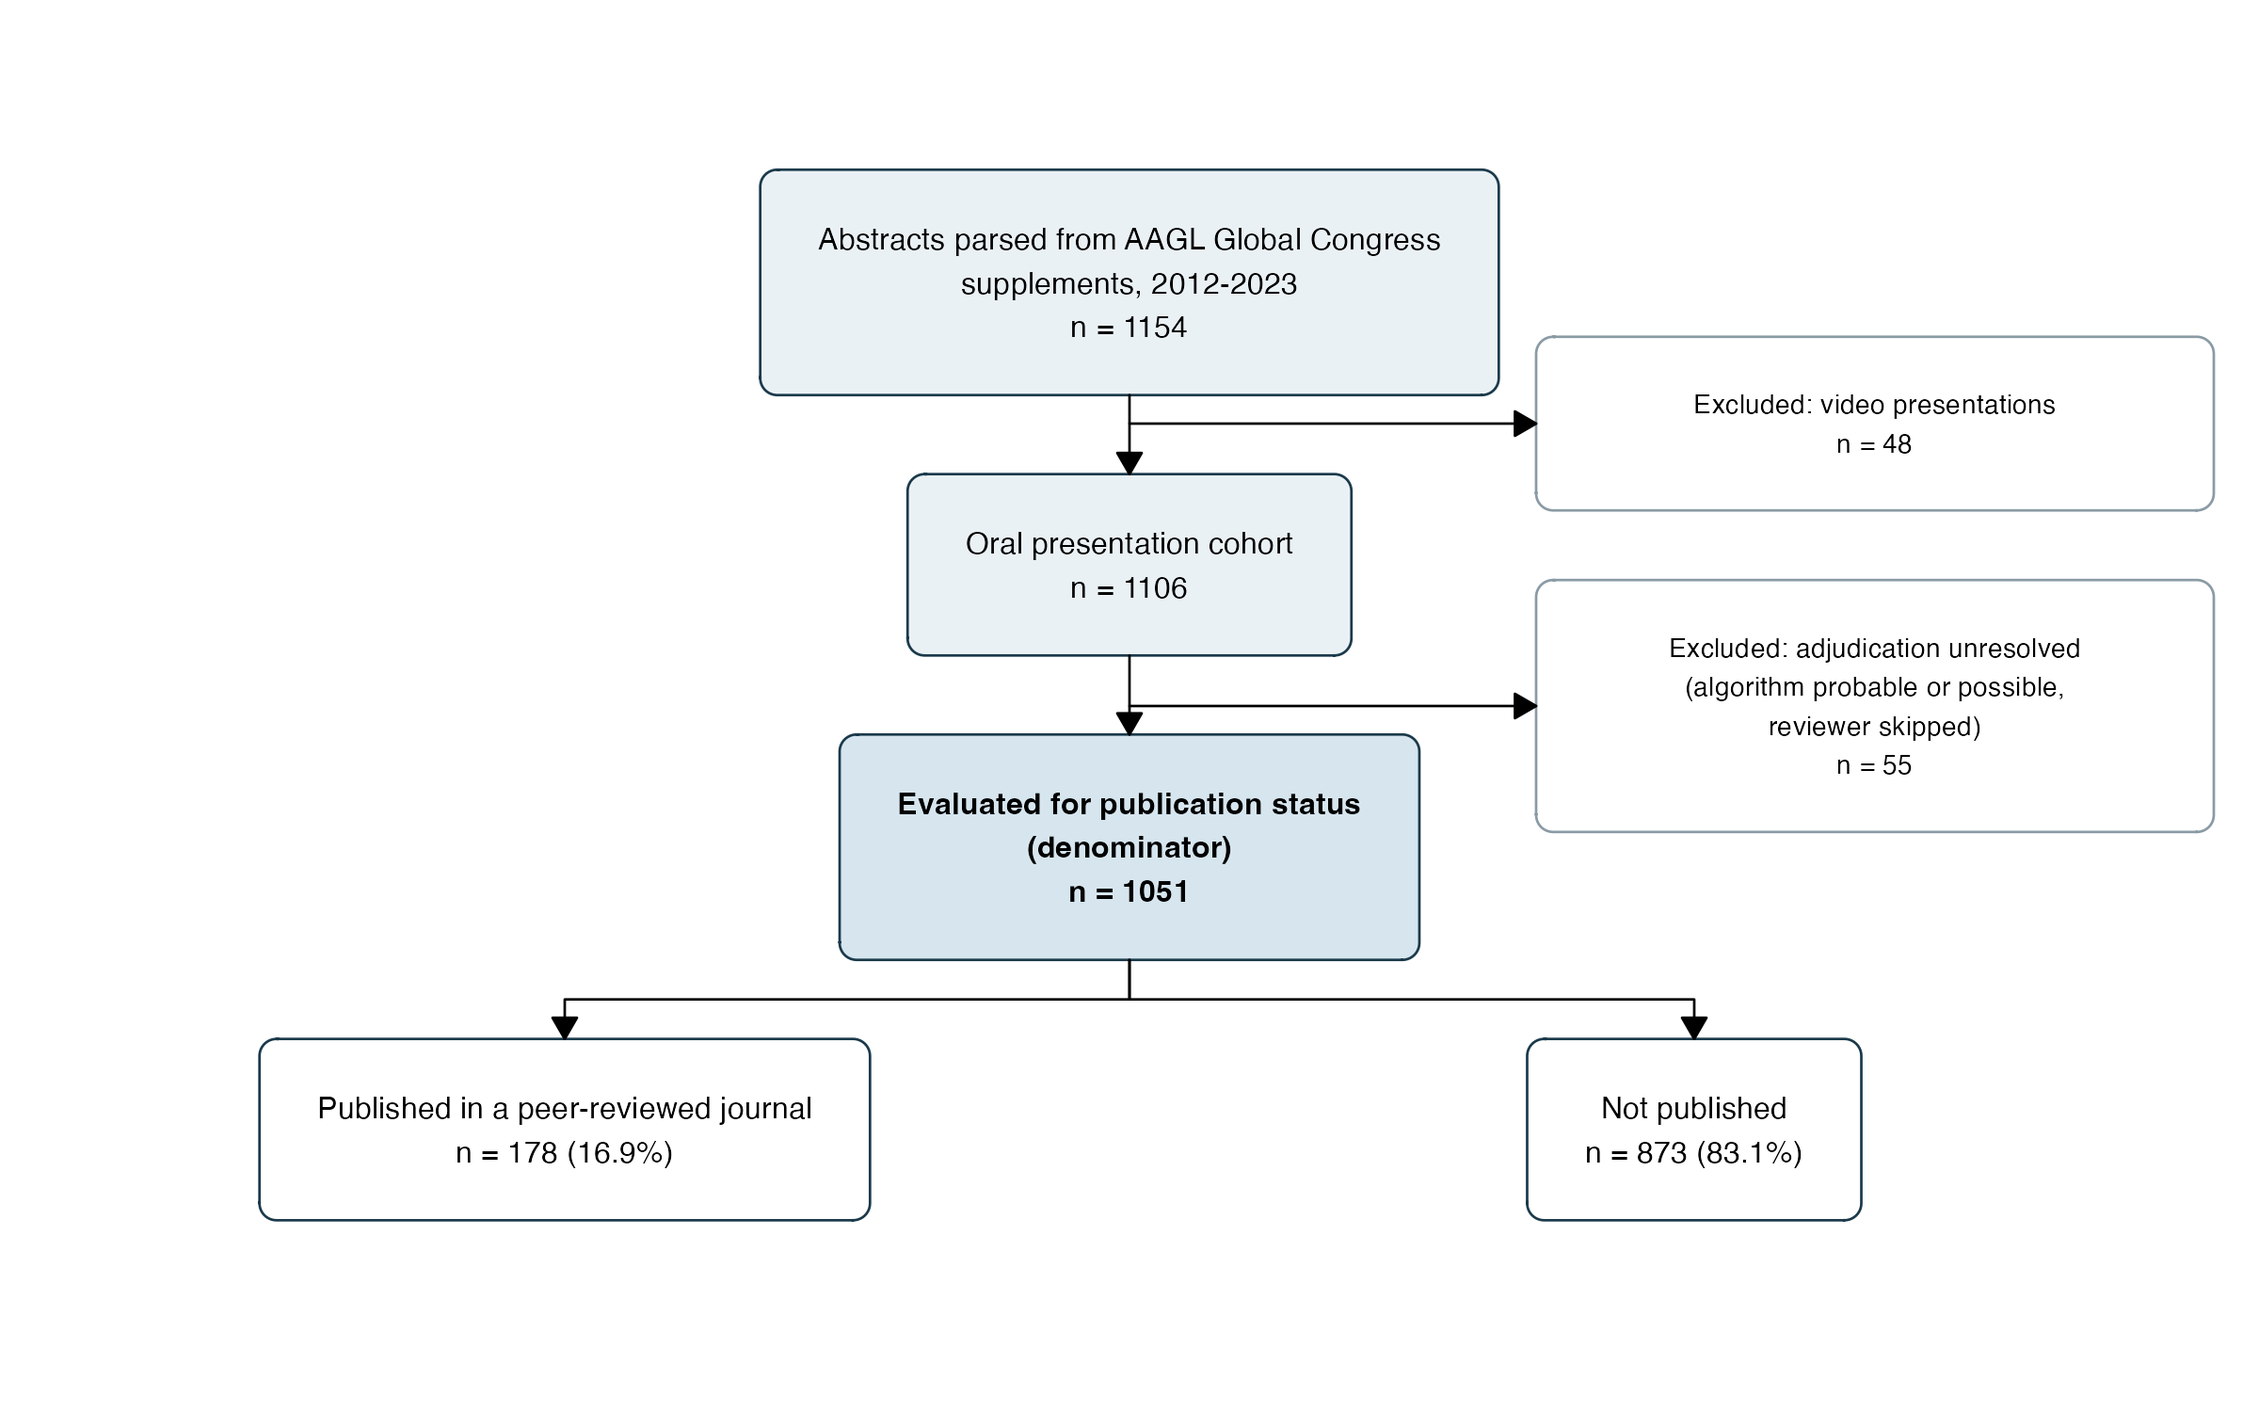
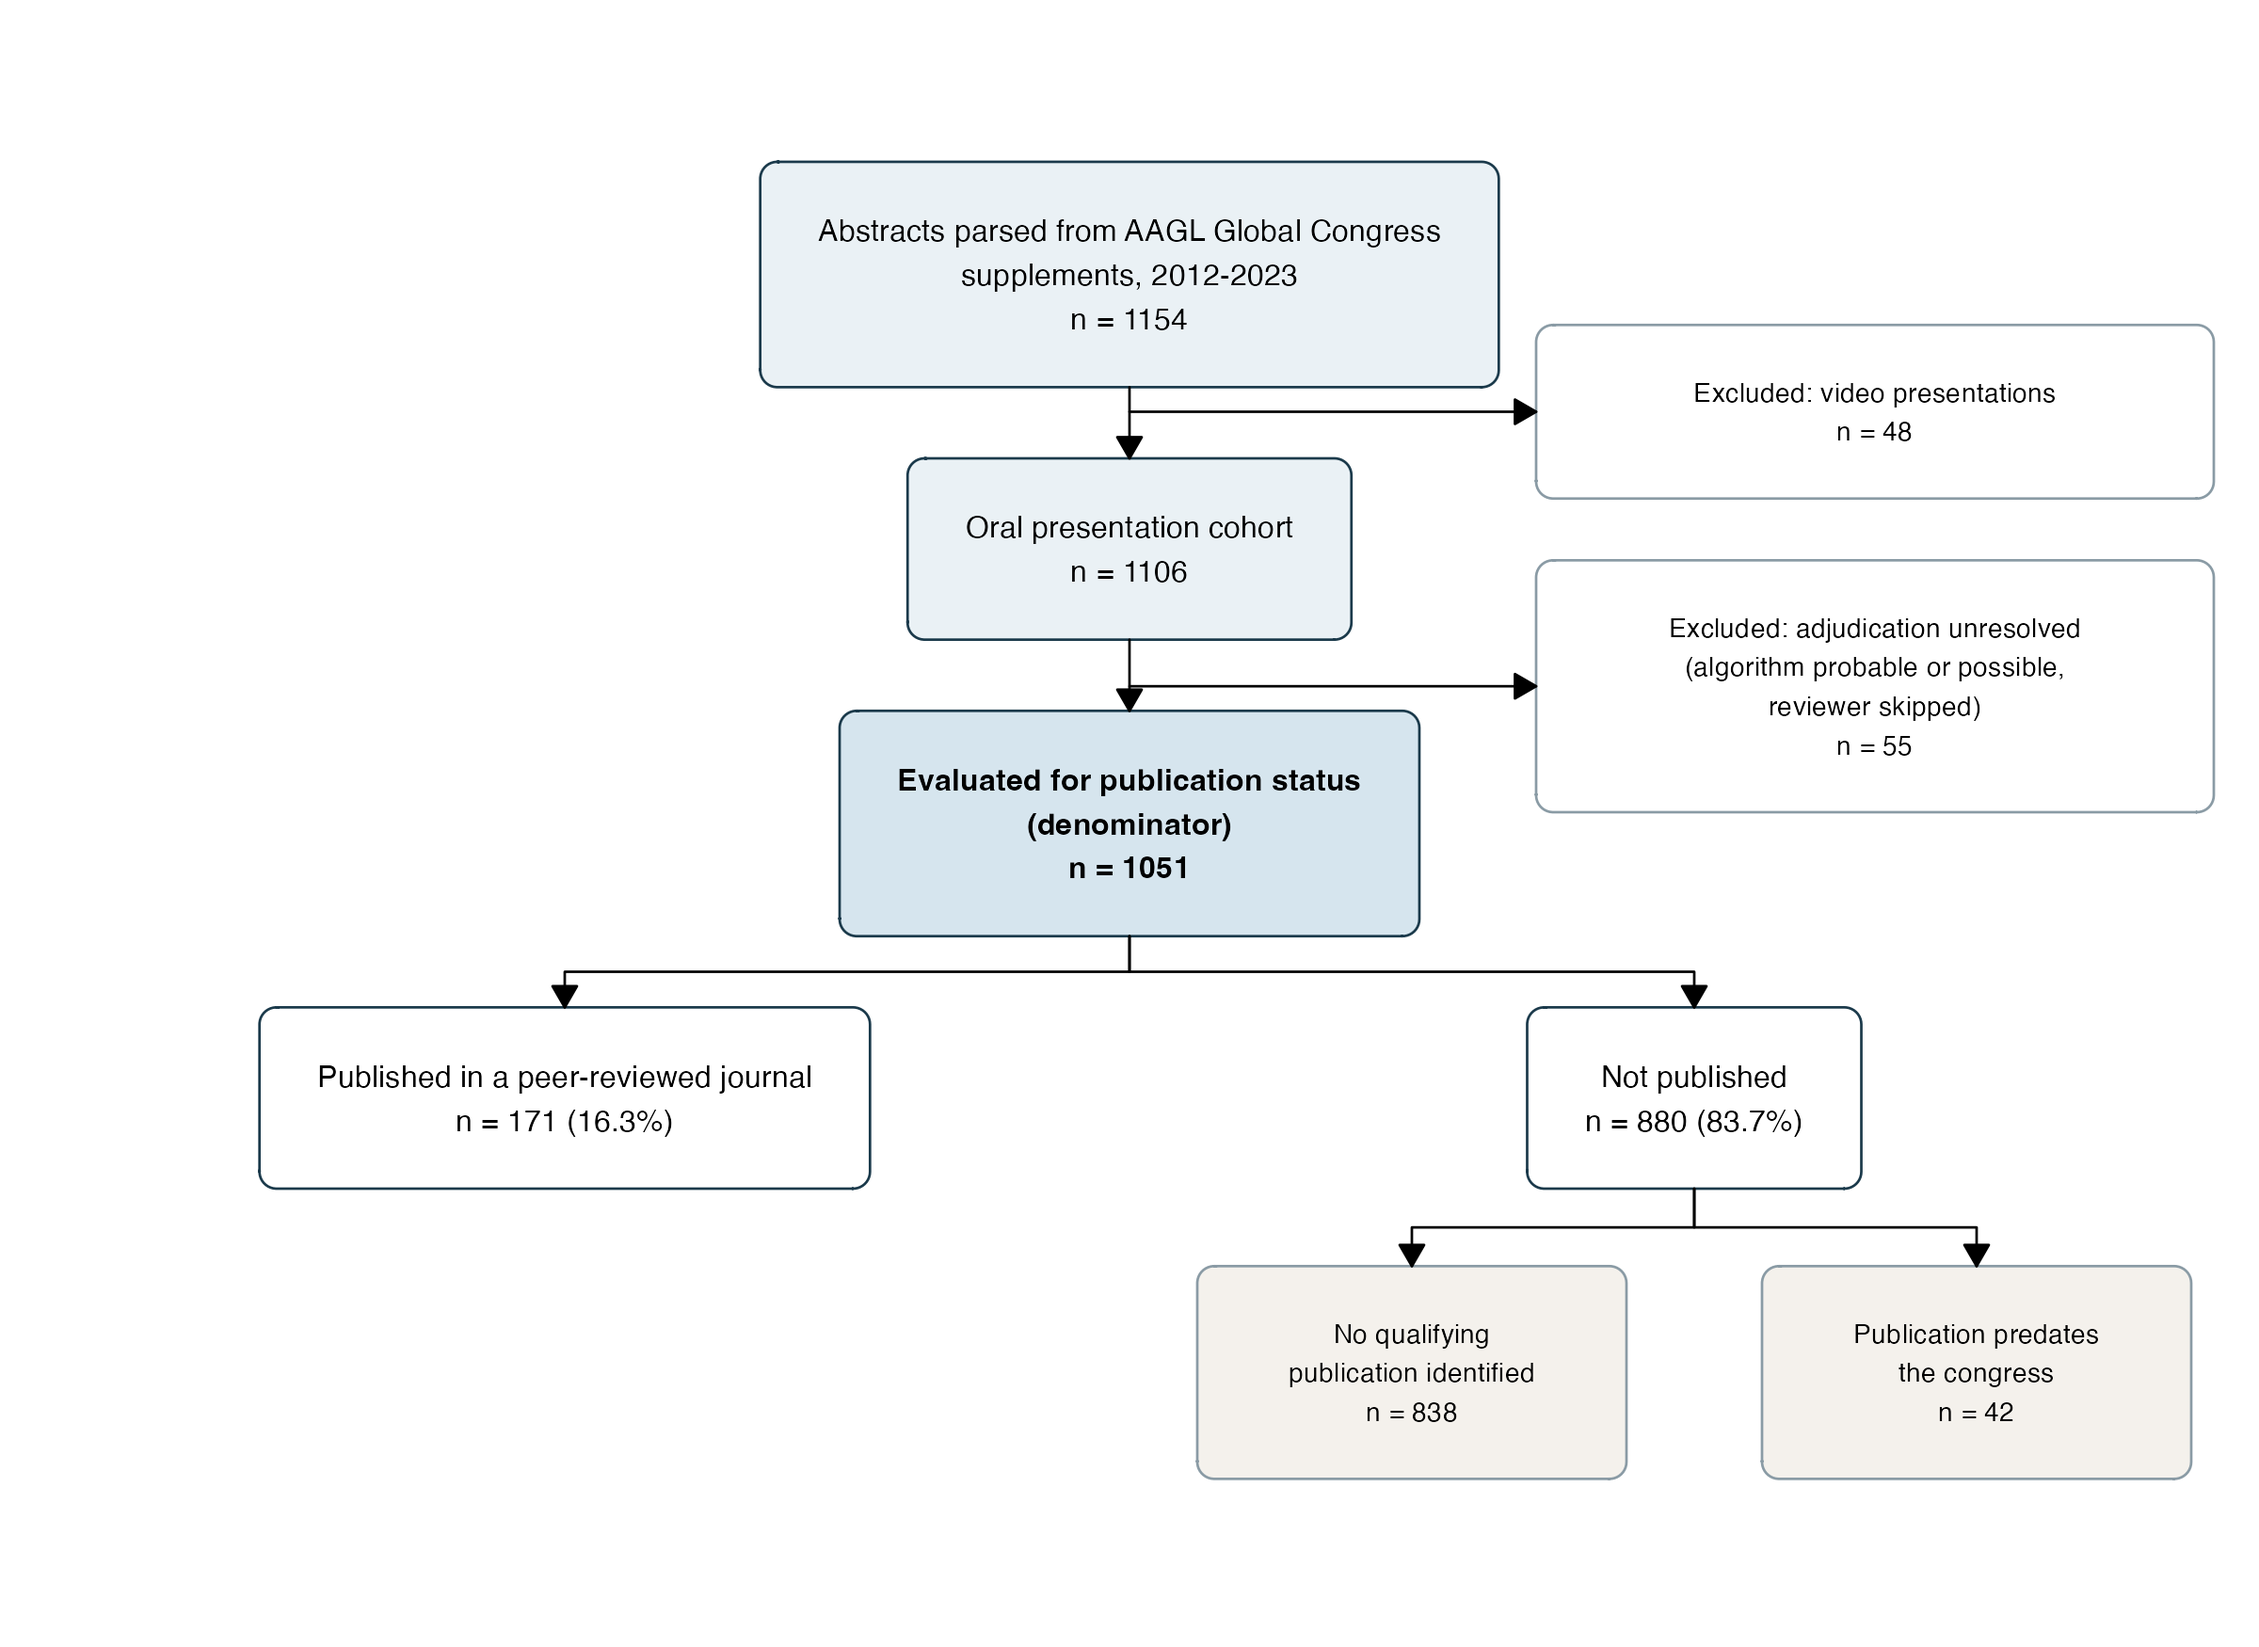
Show the pre-congress exclusions in the STROBE flow chart (#29)
The chart still read 178 published and 873 not, because R/strobe_flowchart.R
had not been re-run since the pre-congress rule landed, and because the
exclusions themselves were nowhere on it.

The not-published arm is now broken down: 838 abstracts with no qualifying
publication identified, and 42 whose matched publication predates the congress.

That breakdown is a split rather than an exclusion arrow off the spine, and the
distinction is the point. These 42 stay in the denominator. They are counted
unpublished, not removed from the study, and an arrow off the spine is the
STROBE idiom for leaving it. Drawing them that way would have said the
denominator was 1,009.

fc_split() addresses branches by positional name ("group 1", "group 2"),
because as_fc(N = ) has no grouping variable to name them after. The group is
looked up by its label instead, so reordering the split fails loudly rather
than silently annotating the published arm.

The script gained a guard while it was open: no abstract may be counted
published on a paper that predates its congress, and the two sub-counts must
sum to the not-published total. The chart cannot now render a state the rule
forbids.

Two counts of "pre-conference" appear across the two figures and they are not
the same thing. The classification tier in figure1_flow_diagram.png flags 39
abstracts whose TOP CANDIDATE predates the congress. The outcome rule is
applied to the publication actually credited, and finds 42. The 39 are a strict
[…]

diff --git a/README.md b/README.md
@@ -37,14 +37,23 @@ and are excluded from that summary but counted in the numerator.
 
 ### Cohort assembly
 
-![STROBE participant-flow chart: 1,154 presentations parsed from the AAGL congress supplements, 48 video presentations excluded leaving a cohort of 1,106 oral presentations, 55 excluded for unresolved adjudication leaving 1,051 evaluated, splitting into 171 published and 880 not published.](output/figures/figure1_strobe_flowchart.png)
+![STROBE participant-flow chart: 1,154 presentations parsed from the AAGL congress supplements, 48 video presentations excluded leaving a cohort of 1,106 oral presentations, 55 excluded for unresolved adjudication leaving 1,051 evaluated, splitting into 171 published and 880 not published. The not-published arm is broken down further into 838 with no qualifying publication identified and 42 whose matched publication predates the congress.](output/figures/figure1_strobe_flowchart.png)
 
 Generated by `R/strobe_flowchart.R`, which derives every count from the pipeline
 files and asserts the arithmetic with `stopifnot()` before drawing, so the
 diagram cannot drift from the data. A second view of the same chain, with the
 classification tiers broken out, comes from `R/08_make_figures.R`:
 
-![Flow diagram showing the same cohort chain with the algorithmic classification tiers broken out: 131 definite, 81 probable, 142 possible, 39 excluded as pre-conference, 713 no match or no candidates.](output/figures/figure1_flow_diagram.png)
+![Flow diagram showing the same cohort chain with the algorithmic classification tiers broken out: 131 definite, 81 probable, 142 possible, 39 whose top candidate was scored as pre-conference, 713 no match or no candidates.](output/figures/figure1_flow_diagram.png)
+
+Two counts of "pre-conference" appear in these figures and they are not the
+same. The scorer flags **39** abstracts whose *top candidate* predates the
+congress, which is the classification tier above. The outcome rule is applied to
+the publication actually credited to each abstract, and finds **42**. The 39 are
+a strict subset; the extra three are two abstracts where a reviewer supplied a
+PMID other than the top candidate, and one scored `definite` whose paper
+predates its congress by two weeks. See
+[docs/OUTCOME_DEFINITION.md](docs/OUTCOME_DEFINITION.md) and appendix A19.
 
 ### Cumulative publication over time
 
